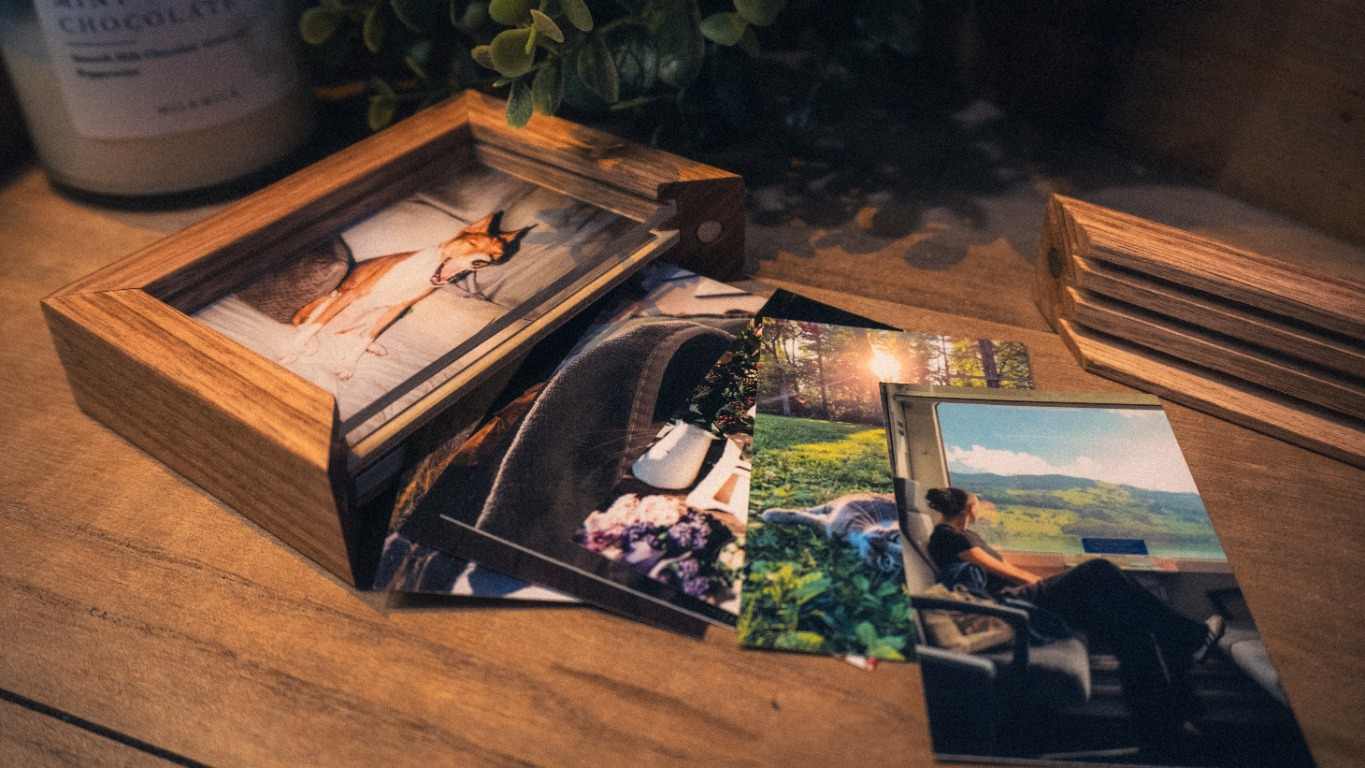
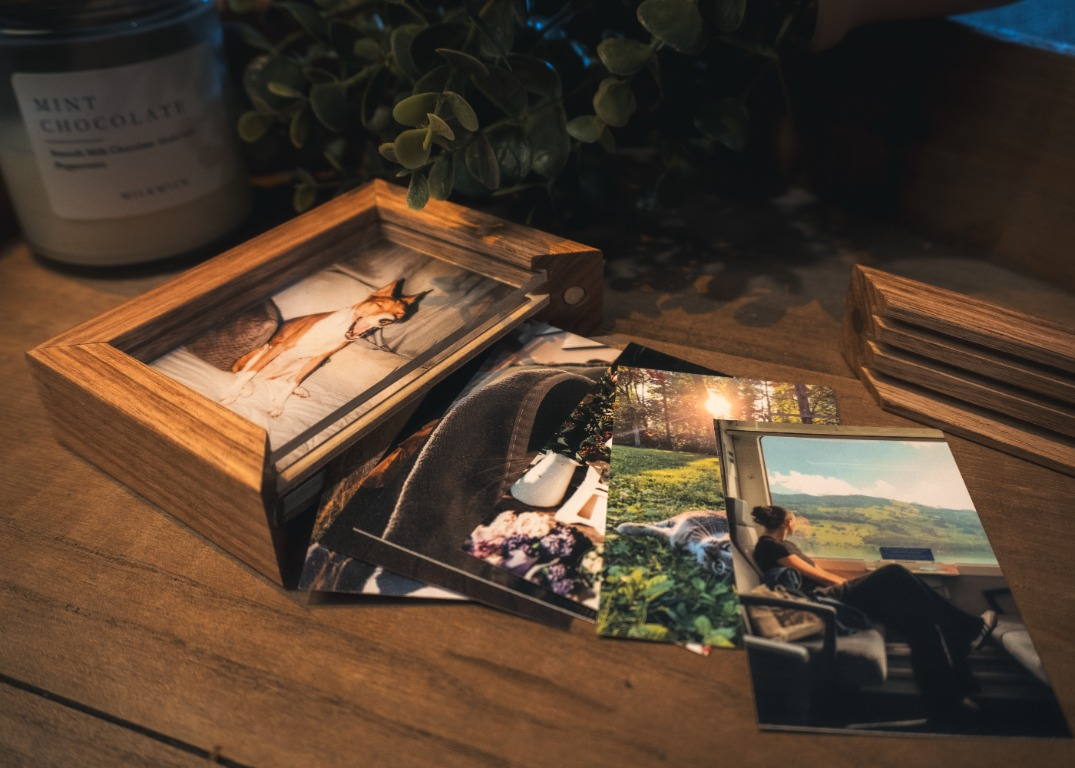
Replace hero image with selected photo

diff --git a/index.html b/index.html
@@ -806,7 +806,7 @@
   <main class="homepage" id="home">
     <img class="hero-left-image" src="Assets/coffee/hero-frame.jpg" alt="Wooden photo frame on a warm tabletop">
     <img class="hero-detail-image" src="Assets/coffee/supporting-photos.jpg" alt="Wooden photo box with photographs on a table">
-    <img class="hero-image" src="Assets/coffee/hero-workshop.jpg" width="1365" height="768" alt="Wooden photo box and scattered photographs on a warm table" fetchpriority="high">
+    <img class="hero-image" src="Assets/coffee/hero-workshop.jpg" width="1075" height="768" alt="Wooden photo box and scattered photographs on a warm table" fetchpriority="high">
     <a class="mobile-hero-cta" href="#colour-palette" aria-label="Scroll to frame configuration"><svg viewBox="0 0 24 24" aria-hidden="true"><path d="M12 4v15M6 13l6 6 6-6"/></svg></a>
     <img class="floating-graphic graphic-71" src="Assets/graphics/71.png" alt="" aria-hidden="true">
     <img class="floating-graphic graphic-83" src="Assets/graphics/83.png" alt="" aria-hidden="true">
